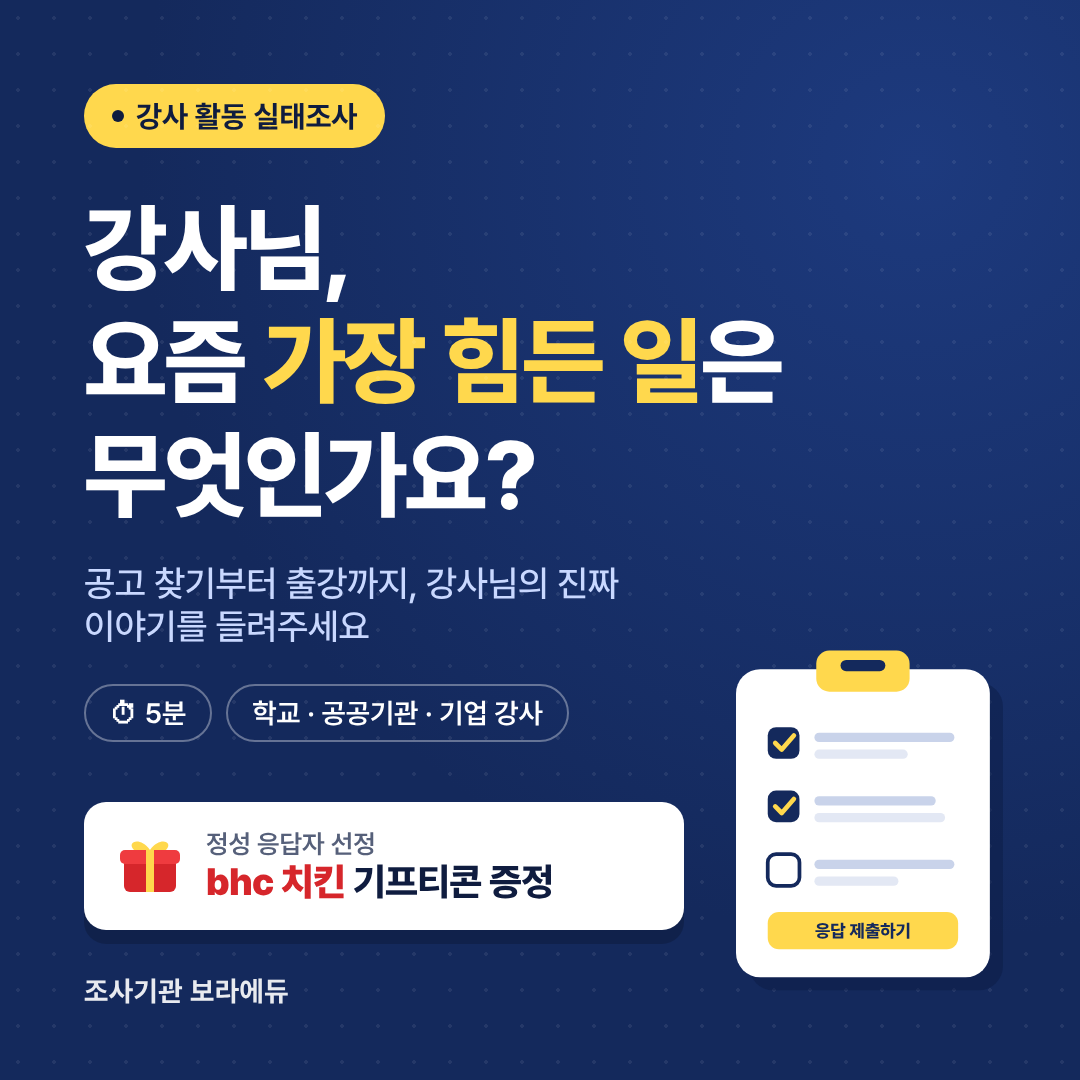
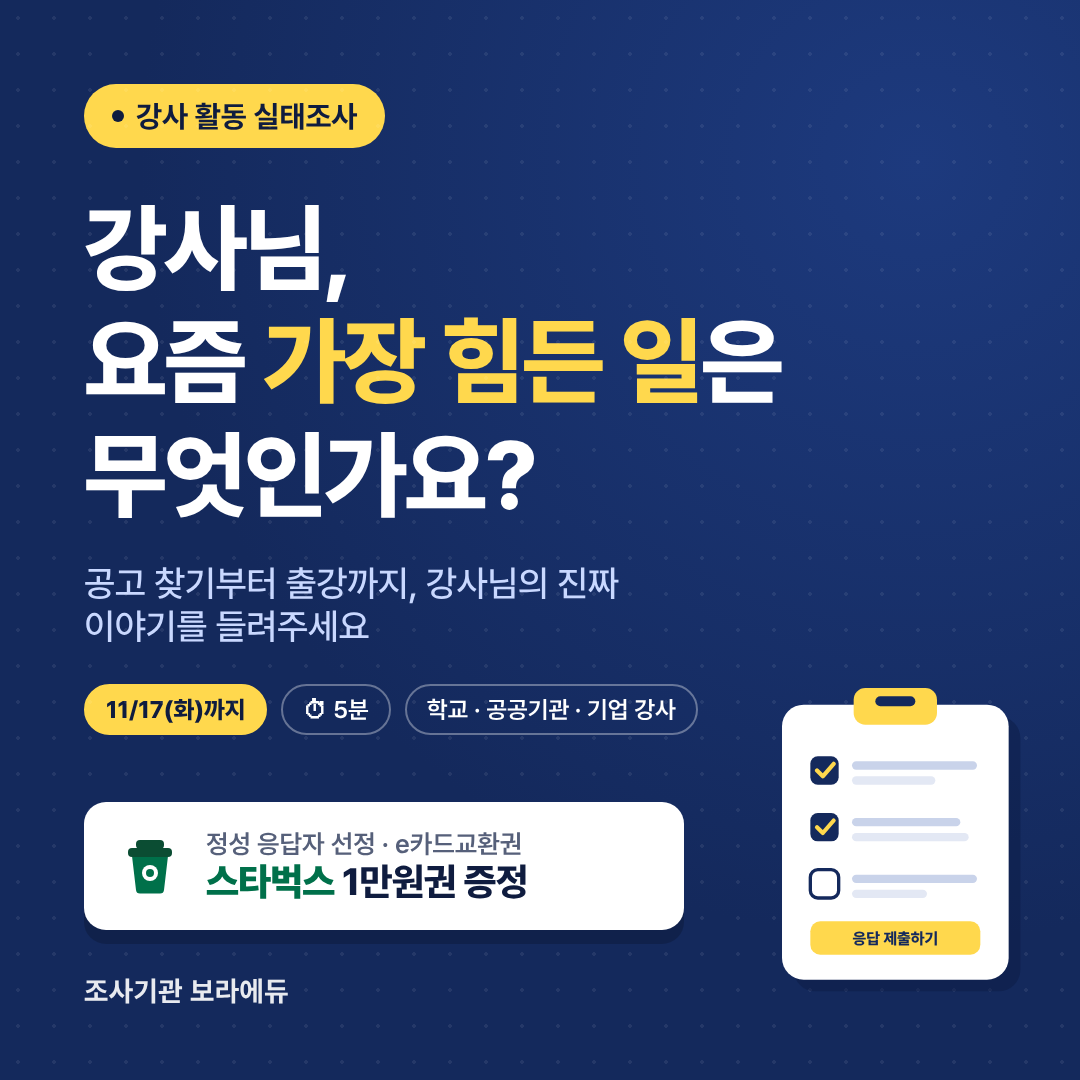
Switch survey reward to Starbucks voucher and add Nov 17 deadline
Respondents before Nov 12 keep the announced bhc gifticon. Adds an Apps
Script function that updates the live form text and schedules automatic
closing at 2026-11-17 23:59 KST, and refreshes the thumbnails.

Claude-Session: https://claude.ai/code/session_01G4atFof58bVp7Gox83ZjKq

Changed region(s): [[0.6722, 0.5806, 0.9472, 0.9167], [0.0611, 0.6111, 0.6417, 0.7028], [0.0917, 0.7639, 0.5194, 0.8556]]

diff --git a/docs/survey/thumbnail/thumbnail.html b/docs/survey/thumbnail/thumbnail.html
@@ -15,7 +15,8 @@ h1 mark{background:none;color:var(--yellow)}
 .meta{display:flex;gap:14px;flex-wrap:wrap}
 .pill{border:2px solid rgba(255,255,255,.35);border-radius:999px;font-weight:600;color:#fff}
 .gift{display:flex;align-items:center;background:var(--paper);color:var(--ink);border-radius:22px;box-shadow:0 14px 0 rgba(0,0,0,.18)}
-.gift b{color:#d6262b}
+.gift b{color:#00704a}
+.pill.due{background:var(--yellow);border-color:var(--yellow);color:var(--ink);font-weight:800}
 .gift .t1{font-weight:600;color:#56607a}
 .gift .t2{font-weight:800;letter-spacing:-.02em}
 .org{font-weight:700;color:#fff;opacity:.9;letter-spacing:.02em}
@@ -27,12 +28,12 @@ h1 mark{background:none;color:var(--yellow)}
 .sq h1{font-size:96px;margin-top:44px}
 .sq .sub{font-size:36px;margin-top:30px}
 .sq .meta{margin-top:36px}
-.sq .pill{font-size:28px;padding:10px 24px}
+.sq .pill{font-size:24px;padding:9px 20px}
 .sq .gift{position:absolute;left:84px;bottom:150px;gap:24px;padding:26px 34px;width:600px}
 .sq .gift .t1{font-size:26px}.sq .gift .t2{font-size:38px}
 .sq .org{position:absolute;left:84px;bottom:72px;font-size:28px}
 .sq .sub{max-width:640px}
-.sq .clip{right:64px;bottom:80px;width:280px}
+.sq .clip{right:48px;bottom:80px;width:250px}
 
 /* wide: safe side margins so 16:10 / 3:2 crops keep everything */
 .wd{width:1200px;height:var(--h);padding:var(--top) 120px 0}
@@ -71,7 +72,7 @@ h1 mark{background:none;color:var(--yellow)}
   </svg>
 </template>
 <template id="giftIcon">
-  <svg width="64" height="64" viewBox="0 0 64 64" aria-hidden="true"><rect x="6" y="24" width="52" height="34" rx="6" fill="#d6262b"/><rect x="2" y="16" width="60" height="14" rx="5" fill="#ef3b3f"/><rect x="28" y="16" width="8" height="42" fill="#ffd84d"/><path d="M32 16 C22 2 8 8 16 16 Z M32 16 C42 2 56 8 48 16 Z" fill="#ffd84d"/></svg>
+  <svg width="64" height="64" viewBox="0 0 64 64" aria-hidden="true"><path d="M14 22h36l-4 34a4 4 0 0 1-4 3.6H22a4 4 0 0 1-4-3.6z" fill="#00704a"/><rect x="10" y="14" width="44" height="9" rx="4" fill="#0b4d33"/><rect x="18" y="6" width="28" height="9" rx="4" fill="#0b4d33"/><circle cx="32" cy="39" r="8" fill="#ffffff"/><circle cx="32" cy="39" r="4" fill="#00704a"/></svg>
 </template>
 <div id="root"></div>
 <script>
@@ -81,8 +82,8 @@ document.getElementById('root').innerHTML=`
   <div class="col"><span class="tag"><i></i>강사 활동 실태조사</span>
   <h1>강사님,<br>요즘 <mark>가장 힘든 일</mark>은<br>무엇인가요?</h1>
   <p class="sub">공고 찾기부터 출강까지, 강사님의 진짜 이야기를 들려주세요</p>
-  <div class="meta"><span class="pill">⏱ 5분</span><span class="pill">학교 · 공공기관 · 기업 강사</span></div></div>
-  <div class="gift">${document.getElementById('giftIcon').innerHTML}<div><p class="t1">정성 응답자 선정</p><p class="t2"><b>bhc 치킨</b> 기프티콘 증정</p></div></div>
+  <div class="meta"><span class="pill due">11/17(화)까지</span><span class="pill">⏱ 5분</span><span class="pill">학교 · 공공기관 · 기업 강사</span></div></div>
+  <div class="gift">${document.getElementById('giftIcon').innerHTML}<div><p class="t1">정성 응답자 선정 · e카드교환권</p><p class="t2"><b>스타벅스</b> 1만원권 증정</p></div></div>
   <p class="org">조사기관 보라에듀</p>
   ${document.getElementById('art').innerHTML}
 </div>`;
